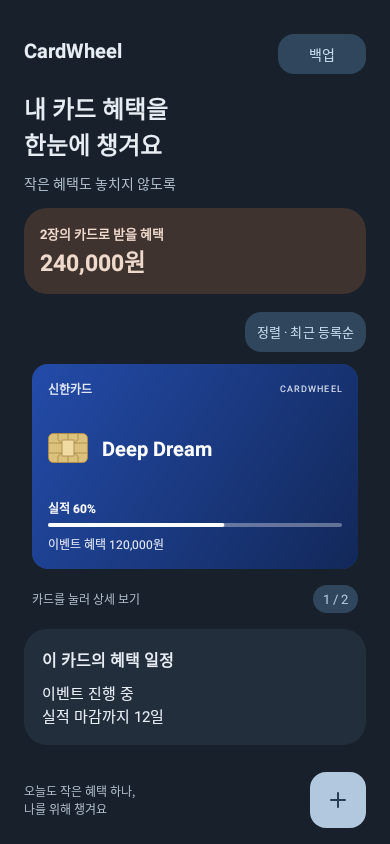
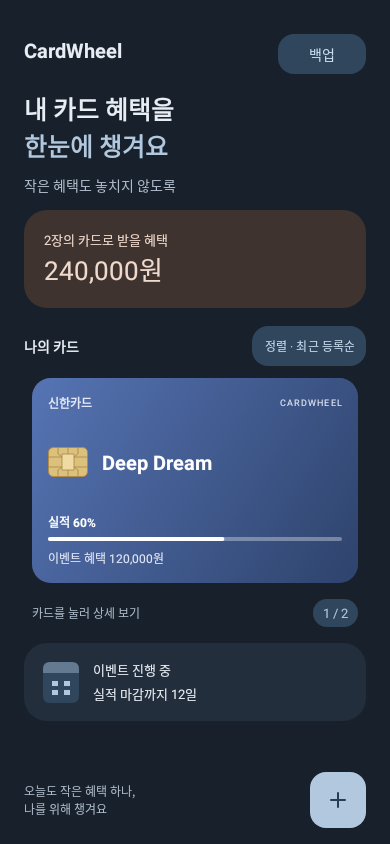
CardWheel-1.4.2

Changed region(s): [[0.0615, 0.0924, 0.9538, 0.7701], [0.0923, 0.7701, 0.4615, 0.8626], [0.4615, 0.8009, 0.4923, 0.8318]]

diff --git a/design-preview/index.html b/design-preview/index.html
@@ -1,5 +1,5 @@
-<!doctype html><html lang="ko"><meta charset="utf-8"><meta name="viewport" content="width=device-width, initial-scale=1"><title>CardWheel 1.4.1 디자인 미리보기</title><style>
+<!doctype html><html lang="ko"><meta charset="utf-8"><meta name="viewport" content="width=device-width, initial-scale=1"><title>CardWheel 1.4.2 디자인 미리보기</title><style>
 *{box-sizing:border-box}body{margin:0;background:#eef1f6;color:#18243d;font-family:system-ui,"Malgun Gothic",sans-serif}header{padding:40px 24px 24px;max-width:1440px;margin:auto}h1{font-size:28px;margin:0 0 12px}p{color:#65718a;line-height:1.6;margin:0 0 20px}.actions{display:flex;gap:8px}button{cursor:pointer;border:0;border-radius:12px;padding:12px 20px;background:white;color:#18243d;font-weight:600}button[aria-pressed=true]{background:#335ceb;color:white}main{max-width:1440px;margin:auto;display:grid;grid-template-columns:repeat(auto-fit,minmax(260px,1fr));gap:28px;padding:0 24px 40px}article{margin:0}h2{font-size:16px;margin:12px 0}img{display:block;width:100%;max-width:390px;border-radius:20px;box-shadow:0 8px 30px #18243d12}body.dark{background:#101724;color:#eef1fa}body.dark p{color:#adb8d0}body.dark button{background:#253246;color:#eef1fa}body.dark button[aria-pressed=true]{background:#a6c4ff;color:#18266b}
-</style><header><h1>CardWheel 1.4.1</h1><p>테두리는 줄이고, 카드와 정보가 잘 보이도록 정리했습니다.<br>샘플 데이터를 넣어 앱의 XML 화면을 렌더링한 미리보기입니다. 실제 휴대폰 캡처는 아닙니다.</p><div class="actions"><button aria-pressed="true" onclick="setMode(false)">밝은 화면</button><button aria-pressed="false" onclick="setMode(true)">어두운 화면</button></div></header><main><article><h2>내 카드</h2><img src="main-notnight.png" data-name="main" alt="내 카드 화면" loading="lazy"></article><article><h2>카드 상세</h2><img src="detail-notnight.png" data-name="detail" alt="카드 상세 화면" loading="lazy"></article><article><h2>카드 등록</h2><img src="form-notnight.png" data-name="form" alt="카드 등록 화면" loading="lazy"></article><article><h2>백업과 복원</h2><img src="backup-notnight.png" data-name="backup" alt="백업과 복원 화면" loading="lazy"></article><article><h2>상세 일정과 메모</h2><img src="detail-bottom-notnight.png" data-name="detail-bottom" alt="상세 일정과 메모 화면" loading="lazy"></article><article><h2>날짜 선택과 메모</h2><img src="form-bottom-notnight.png" data-name="form-bottom" alt="날짜 선택과 메모 화면" loading="lazy"></article><article><h2>서버 연결 설정</h2><img src="backup-bottom-notnight.png" data-name="backup-bottom" alt="서버 연결 설정 화면" loading="lazy"></article><article><h2>해지 완료 + 탈회 완료 배지</h2><img src="main-cancelled-notnight.png" data-name="main-cancelled" alt="해지 완료 카드 화면" loading="lazy"></article></main><script>
+</style><header><h1>CardWheel 1.4.2</h1><p>테두리는 줄이고, 카드와 정보가 잘 보이도록 정리했습니다.<br>샘플 데이터를 넣어 앱의 XML 화면을 렌더링한 미리보기입니다. 실제 휴대폰 캡처는 아닙니다.</p><div class="actions"><button aria-pressed="true" onclick="setMode(false)">밝은 화면</button><button aria-pressed="false" onclick="setMode(true)">어두운 화면</button></div></header><main><article><h2>내 카드</h2><img src="main-notnight.png" data-name="main" alt="내 카드 화면" loading="lazy"></article><article><h2>카드 상세</h2><img src="detail-notnight.png" data-name="detail" alt="카드 상세 화면" loading="lazy"></article><article><h2>카드 등록</h2><img src="form-notnight.png" data-name="form" alt="카드 등록 화면" loading="lazy"></article><article><h2>백업과 복원</h2><img src="backup-notnight.png" data-name="backup" alt="백업과 복원 화면" loading="lazy"></article><article><h2>상세 일정과 메모</h2><img src="detail-bottom-notnight.png" data-name="detail-bottom" alt="상세 일정과 메모 화면" loading="lazy"></article><article><h2>날짜 선택과 메모</h2><img src="form-bottom-notnight.png" data-name="form-bottom" alt="날짜 선택과 메모 화면" loading="lazy"></article><article><h2>서버 연결 설정</h2><img src="backup-bottom-notnight.png" data-name="backup-bottom" alt="서버 연결 설정 화면" loading="lazy"></article><article><h2>해지 완료 + 탈회 완료 배지</h2><img src="main-cancelled-notnight.png" data-name="main-cancelled" alt="해지 완료 카드 화면" loading="lazy"></article></main><script>
 function setMode(dark){document.body.classList.toggle('dark',dark);document.querySelectorAll('img[data-name]').forEach(img=>img.src=img.dataset.name+'-'+(dark?'night':'notnight')+'.png');document.querySelectorAll('button').forEach((b,i)=>b.setAttribute('aria-pressed',String(i===(dark?1:0))));}
 </script></html>

diff --git a/app/src/test/java/com/example/cardwheel/CardWorkflowTest.kt b/app/src/test/java/com/example/cardwheel/CardWorkflowTest.kt
@@ -43,11 +43,15 @@ class CardWorkflowTest {
         adapter.submitItems(listOf(CardItem(id = 1, company = "KB 국민카드", cardName = "노란 카드"), CardItem(id = 2, company = "삼성카드", cardName = "파란 카드")))
         val holder = adapter.onCreateViewHolder(android.widget.FrameLayout(activity), 0)
         adapter.onBindViewHolder(holder, 0)
+        val activeKBColors = (holder.itemView.findViewById<View>(R.id.cardContent).background as android.graphics.drawable.GradientDrawable).colors
         assertEquals(android.graphics.Color.parseColor("#322A16"), holder.itemView.findViewById<android.widget.TextView>(R.id.tvCardName).currentTextColor)
         adapter.onBindViewHolder(holder, 1)
         assertEquals(android.graphics.Color.WHITE, holder.itemView.findViewById<android.widget.TextView>(R.id.tvCardName).currentTextColor)
         val background = holder.itemView.findViewById<View>(R.id.cardContent).background as android.graphics.drawable.GradientDrawable
-        assertArrayEquals(intArrayOf(android.graphics.Color.parseColor("#17539A"), android.graphics.Color.parseColor("#142F59")), background.colors)
+        val freshHolder = adapter.onCreateViewHolder(android.widget.FrameLayout(activity), 0)
+        adapter.onBindViewHolder(freshHolder, 1)
+        val freshBackground = freshHolder.itemView.findViewById<View>(R.id.cardContent).background as android.graphics.drawable.GradientDrawable
+        assertArrayEquals(freshBackground.colors, background.colors)
         adapter.submitItems(listOf(CardItem(id = 3, company = "KB국민카드", cardName = "해지한 카드", cancelled = true)))
         adapter.onBindViewHolder(holder, 0)
         assertEquals(1f, holder.itemView.findViewById<View>(R.id.cardContent).alpha, 0.001f)
@@ -56,8 +60,7 @@ class CardWorkflowTest {
         assertEquals(View.VISIBLE, holder.itemView.findViewById<View>(R.id.tvCancelledBadge).visibility)
         assertEquals(android.graphics.Color.parseColor("#322A16"), holder.itemView.findViewById<TextView>(R.id.tvCardName).currentTextColor)
         val cancelledColors = (holder.itemView.findViewById<View>(R.id.cardContent).background as android.graphics.drawable.GradientDrawable).colors
-        val issuerPalette = IssuerCatalog.palette("KB국민카드")
-        assertArrayEquals(intArrayOf(android.graphics.Color.parseColor(issuerPalette.start), android.graphics.Color.parseColor(issuerPalette.end)), cancelledColors)
+        assertArrayEquals(activeKBColors, cancelledColors)
         adapter.submitItems(listOf(CardItem(id = 3, company = "KB국민카드", cardName = "해지 취소한 카드", cancelled = false)))
         adapter.onBindViewHolder(holder, 0)
         assertEquals(1f, holder.itemView.findViewById<View>(R.id.cardContent).alpha, 0.001f)
@@ -97,7 +100,7 @@ class CardWorkflowTest {
             root.layout(0, 0, root.measuredWidth, root.measuredHeight)
             val recycler = pager.getChildAt(0) as androidx.recyclerview.widget.RecyclerView
             val holder = recycler.findViewHolderForAdapterPosition(pager.currentItem)!!
-            val card = (holder.itemView as android.view.ViewGroup).getChildAt(0)
+            val card = holder.itemView.findViewById<View>(R.id.cardContent).parent.parent as View
             return card.width to card.height
         }
         val first = dimensions()
@@ -124,7 +127,7 @@ class CardWorkflowTest {
             page.measure(View.MeasureSpec.makeMeasureSpec((320 * density).toInt(), View.MeasureSpec.EXACTLY),
                 View.MeasureSpec.makeMeasureSpec((height * density).toInt(), View.MeasureSpec.EXACTLY))
             page.layout(0, 0, page.measuredWidth, page.measuredHeight)
-            val card = page.getChildAt(0)
+            val card = page.findViewById<View>(R.id.cardContent).parent.parent as View
             assertEquals(page.paddingBottom, page.height - card.bottom)
             assertEquals(page.paddingTop, card.top)
         }

diff --git a/app/src/main/java/com/example/cardwheel/CardAdapter.kt b/app/src/main/java/com/example/cardwheel/CardAdapter.kt
@@ -45,8 +45,8 @@ class CardAdapter(private val onClick: (CardItem) -> Unit) : RecyclerView.Adapte
             val reserve = if (card.cancelled && card.withdrawn) 140 else if (closed) 76 else 0
             header.setPaddingRelative(0, 0, (reserve * resources.displayMetrics.density).toInt(), 0)
             content.background = GradientDrawable(
-                GradientDrawable.Orientation.TL_BR, intArrayOf(Color.parseColor(palette.start), Color.parseColor(palette.end))
-            ).apply { cornerRadius = 16f * resources.displayMetrics.density }
+                GradientDrawable.Orientation.TL_BR, intArrayOf(androidx.core.graphics.ColorUtils.blendARGB(Color.parseColor(palette.start), Color.parseColor("#AAB8C6"), 0.38f), androidx.core.graphics.ColorUtils.blendARGB(Color.parseColor(palette.end), Color.parseColor("#71859A"), 0.30f))
+            ).apply { cornerRadius = 19f * resources.displayMetrics.density }
             val foreground = Color.parseColor(if (palette.light) "#322A16" else "#FFFFFF")
             val secondary = Color.parseColor(if (palette.light) "#514322" else "#E2E8F6")
             listOf(R.id.tvCardName, R.id.tvProgress).forEach { findViewById<TextView>(it).setTextColor(foreground) }

diff --git a/app/src/main/java/com/example/cardwheel/MainActivity.kt b/app/src/main/java/com/example/cardwheel/MainActivity.kt
@@ -107,7 +107,8 @@ class MainActivity : BaseActivity() {
             val summaryText = getString(R.string.wallet_summary, cards.size, CardDisplay.money(cards.filter { !it.cancelled && !it.withdrawn && !it.rewardReceived }.sumOf { it.rewardAmount.toLong() }))
             findViewById<TextView>(R.id.tvSummary).text = android.text.SpannableString(summaryText).apply {
                 val amountStart = summaryText.indexOf('\n') + 1
-                if (amountStart > 0) setSpan(android.text.style.RelativeSizeSpan(1.8f), amountStart, length, android.text.Spanned.SPAN_EXCLUSIVE_EXCLUSIVE)
+                if (amountStart > 0) setSpan(android.text.style.StyleSpan(android.graphics.Typeface.BOLD), amountStart, length, android.text.Spanned.SPAN_EXCLUSIVE_EXCLUSIVE)
+                if (amountStart > 0) setSpan(android.text.style.RelativeSizeSpan(2f), amountStart, length, android.text.Spanned.SPAN_EXCLUSIVE_EXCLUSIVE)
             }
             showSelection()
     }

diff --git a/README.md b/README.md
@@ -1,8 +1,10 @@
-# CardWheel 1.4.1
+# CardWheel 1.4.2
 
-XML Views + Kotlin + Room 기반 Android 카드 이벤트 관리 앱입니다. versionCode는 17입니다.
+XML Views + Kotlin + Room 기반 Android 카드 이벤트 관리 앱입니다. versionCode는 18입니다.
 
 ## 디자인 변경
+
+1.4.2에서 승인 시안과 다르던 메인 구성을 수정했습니다. 카드 목록 제목, 강조된 인사말, 큰 혜택 금액, 카드 뒤의 얇은 겹침, 작은 달력 그림을 넣은 가로 일정 영역을 적용했습니다. 카드사별 색상은 채도를 줄여 부드럽게 조정했습니다. 미리보기는 실제 XML을 샘플 데이터로 렌더링한 이미지입니다.
 
 승인한 디자인 04를 XML Views에 적용했습니다. 밝은 배경, 은은한 살구색 혜택 요약, 부드러운 블루 포인트, 둥근 버튼과 정보 카드로 메인/상세/등록/백업 화면을 정리했습니다. 캐릭터와 꽃/하트 장식은 넣지 않았으며 카드사별 색상과 IC 칩을 유지합니다. 메인 혜택 요약의 금액은 더 크게 표시하고 빈 화면에는 단순한 카드 그림을 사용합니다. 다크 테마도 대응합니다.
 
@@ -18,7 +20,7 @@ XML Views + Kotlin + Room 기반 Android 카드 이벤트 관리 앱입니다. v
 
 Room 버전은 2에서 3으로 이전하며 기존 카드/메모/해지 상태는 보존됩니다. 새 탈회 상태는 기본적으로 꺼져 있습니다. 이전 Room 버전 1에서의 업데이트도 지원합니다. 앱을 삭제하거나 데이터를 초기화할 필요가 없습니다.
 
-새 파일 및 MariaDB 백업에는 두 상태가 모두 포함됩니다(백업 schemaVersion 2). 이전 schemaVersion 1 백업도 읽으며 탈회 상태는 꺼진 상태로 복원합니다. **1.3.x 앱에서는 새 백업을 읽을 수 없으므로 백업을 사용하는 다른 기기도 1.4.1으로 업데이트하세요.** DB 테이블 변경은 필요하지 않습니다. 정렬 선택은 기기 설정이며 카드 백업에는 포함하지 않습니다.
+새 파일 및 MariaDB 백업에는 두 상태가 모두 포함됩니다(백업 schemaVersion 2). 이전 schemaVersion 1 백업도 읽으며 탈회 상태는 꺼진 상태로 복원합니다. **1.3.x 앱에서는 새 백업을 읽을 수 없으므로 백업을 사용하는 다른 기기도 1.4.2으로 업데이트하세요.** DB 테이블 변경은 필요하지 않습니다. 정렬 선택은 기기 설정이며 카드 백업에는 포함하지 않습니다.
 
 ## 열기 및 빌드
 

diff --git a/database/README.md b/database/README.md
@@ -1,4 +1,4 @@
-# CardWheel 1.4.1 · MariaDB 직접 연결
+# CardWheel 1.4.2 · MariaDB 직접 연결
 
 추가 API 서버, Docker 컨테이너, 80/443 포트 설정 없이 기존 MariaDB에 JDBC로 직접 연결합니다. Room은 휴대폰 내부 저장소로 계속 사용하고 백업·복원할 때만 DB 연결을 열어 작업 후 닫습니다. 회원가입이나 자동 동기화는 포함하지 않습니다. 같은 DB 계정과 테이블을 사용하는 기기는 같은 카드 백업 한 개를 공유합니다.
 
@@ -61,4 +61,4 @@ YES라면 지원하며, TLS 연결 세션에서 `SHOW SESSION STATUS LIKE 'Ssl_c
 - 테이블/권한 오류: setup.sql 실행 여부, 입력한 DB 이름, 전용 계정의 세 가지 테이블 권한을 확인합니다.
 - TLS 오류: 서버의 TLS 지원과 인증서, SAN의 도메인/IP 일치 여부를 확인합니다. 일반 연결을 의도했다면 앱 TLS 옵션을 끕니다.
 
-기존 Room DB와 applicationId는 유지하고 이번 앱 버전은 **1.4.1(versionCode 17)**입니다. 기존 설치를 업데이트할 때는 같은 서명키로 빌드하세요.
+기존 Room DB와 applicationId는 유지하고 이번 앱 버전은 **1.4.2(versionCode 18)**입니다. 기존 설치를 업데이트할 때는 같은 서명키로 빌드하세요.
